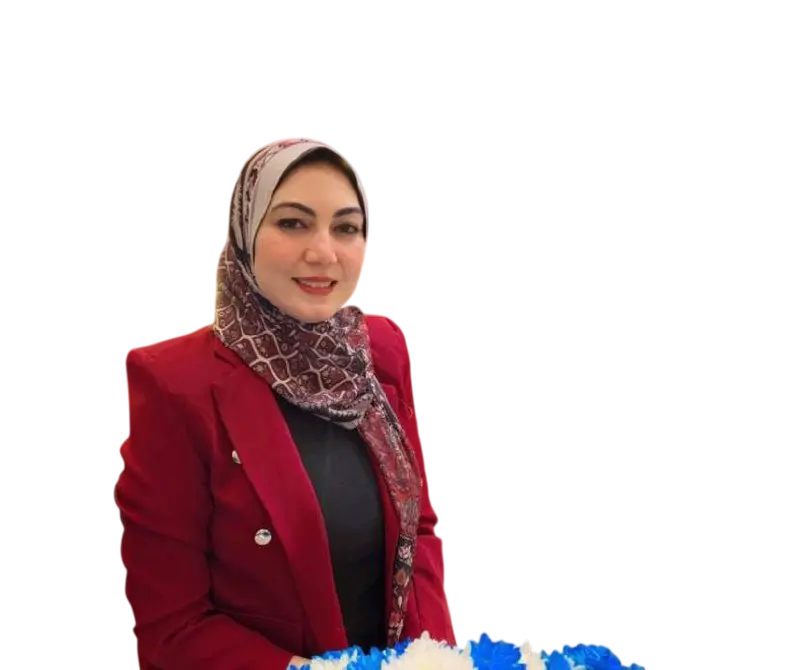
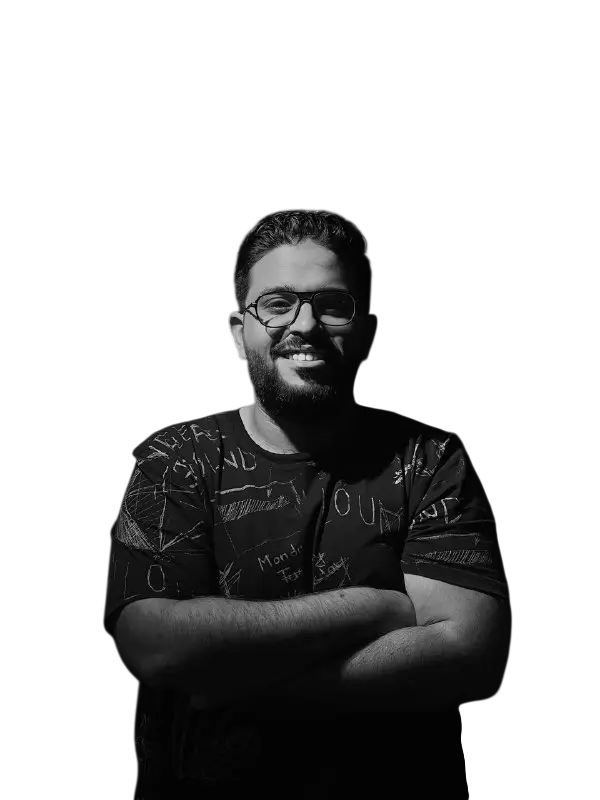
edit

diff --git a/index.html b/index.html
@@ -5,9 +5,34 @@
     <meta charset="utf-8" />
     <meta name="viewport" content="width=device-width, initial-scale=1.0, maximum-scale=1.0, user-scalable=no" />
     <meta name="description"
-        content="Ahmed Portfolio's - A reliable and precise professional driven by passion, backed by solid experience, and committed to delivering excellence" />
-    <title>Ahmed Portfolio's </title>
-    <link rel="icon" type="image/webp" href="/favicon.png" />
+        content="Ahmed's Portfolio - A reliable and precise professional driven by passion, backed by solid experience, and committed to delivering excellence" />
+        <meta name="author" content="Ahmed Khaled" />
+        
+        <meta name="keywords" content="Ahmed Khaled, portfolio, CG Artist , Architect , 3ds Max, projects, 3D Modeling , 3D Visualization , 3D Animation" />
+    <meta name="robots" content="index, follow" />
+    <meta name="theme-color" content="#6B21A8" />
+    <title>Ahmed's Portfolio </title>
+
+
+
+    <!-- Open Graph / Social Sharing -->
+    <meta property="og:title" content="Ahmed's Portfolio" />
+    <meta property="og:description" content="Ahmed's Portfolio - A reliable and precise professional driven by passion, backed by solid experience, and committed to delivering excellence." />
+    <meta property="og:image" content="https://i.postimg.cc/Y9pNt3s0/Icon-(8).png" />
+    <meta property="og:url" content="https://ahmedkhaleds.netlify.app" />
+    <meta property="og:type" content="website" />
+
+    <!-- Twitter Card -->
+    <meta name="twitter:card" content="summary_large_image" />
+    <meta name="twitter:title" content="Ahmed's Portfolio" />
+    <meta name="twitter:description" content="Ahmed's Portfolio - A reliable and precise professional driven by passion, backed by solid experience, and committed to delivering excellence" />
+    <meta name="twitter:image" content="https://i.postimg.cc/Y9pNt3s0/Icon-(8).png" />
+
+    <!-- Canonical URL -->
+    <link rel="canonical" href="https://ahmedkhaleds.netlify.app" />
+
+
+    <link rel="icon" type="image/webp" href="/favicon.webp" />
 
     <link rel="preconnect" href="https://fonts.googleapis.com">
     <link rel="preconnect" href="https://fonts.gstatic.com" crossorigin>

diff --git a/src/components/Navbar.tsx b/src/components/Navbar.tsx
@@ -110,7 +110,7 @@ const Navbar: React.FC<NavbarProps> = memo(({ currentView, onNavigate }) => {
                             onClick={handleHomeClick}
                         >
                             <div className="w-8 h-8 md:w-9 md:h-9 flex items-center justify-center transition-transform duration-500 group-hover:rotate-6">
-                                <img className="" src="/favicon.png" alt="" />
+                                <img className="" src="/favicon.webp" alt="" />
                             </div>
                             {/* <span className="font-designer text-xl md:text-2xl tracking-tighter text-gray-100 hidden sm:block opacity-90 group-hover:opacity-100 transition-opacity">Ahmed </span> */}
                         </div>

diff --git a/src/components/Hero.tsx b/src/components/Hero.tsx
@@ -245,7 +245,7 @@ A reliable and precise professional driven by passion, backed by solid experienc
                             <div className="absolute bottom-0 w-full h-12 md:h-24 bg-gradient-to-t from-[#111] via-[#1F2937]/80 to-transparent opacity-[0.7] z-30"></div>
 
                             <img
-                                src="/home.png"
+                                src="/home.webp"
                                 alt="Portrait"
                                 loading="eager"
                                 decoding="async"

diff --git a/src/components/About.tsx b/src/components/About.tsx
@@ -127,7 +127,7 @@ const About: React.FC = memo(() => {
             <div className="absolute inset-0 bg-gradient-to-br from-blue-900 to-indigo-900/50 md:hidden" />
 
             <img
-              src="/about.png"
+              src="/about.webp"
               alt="Portrait"
               loading="eager"
               decoding="async"
